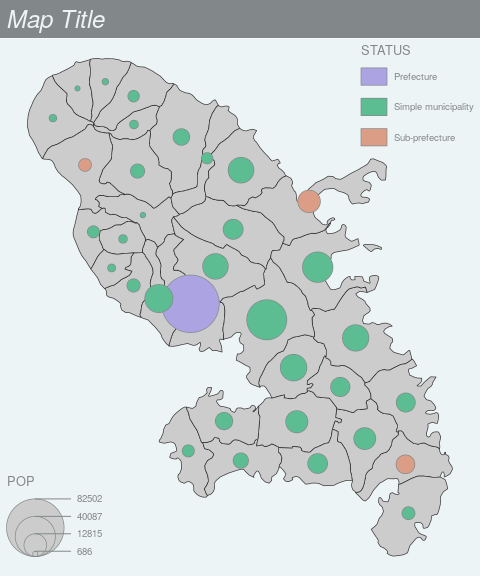
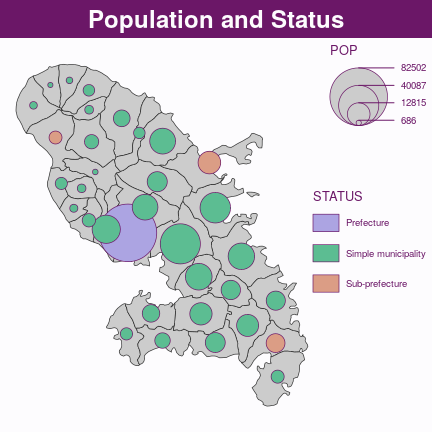
fix: allow the use of the base pipe (R>=4.1.0)
change the functions from where the value is returned, from mf_map() to relevant mf_* functions

diff --git a/README.md b/README.md
@@ -41,7 +41,7 @@ The main `mapsf` function is `mf_map()`.
 
 ``` r
 library(mapsf)
-#> Loading required package: sf
+#> Le chargement a nécessité le package : sf
 #> Linking to GEOS 3.7.1, GDAL 3.1.2, PROJ 7.1.0
 # Import the sample dataset
 mtq <- mf_get_mtq()
@@ -92,18 +92,29 @@ dev.off()
 ![](man/figures/mtq.png)
 
 Note that `mapsf` is, to a certain degree, compatible with the pipe
-syntax:
+syntax from either `magrittr` or `base`(&gt;= 4.1.0):
+
+``` r
+mf_theme("candy")
+mtq |>
+  mf_init(expandBB = c(0,0,0,.4)) |>
+  mf_map(add = TRUE) |>
+  mf_map(c("POP","STATUS"), "prop_typo")
+mf_title("Population and Status")
+```
+
+![](man/figures/README-example4-1.png)<!-- -->
 
 ``` r
 library(magrittr)
 mf_theme("agolalight")
 mtq %>% 
   mf_map() %>%
-  mf_map(c("POP","STATUS"), "prop_typo")
-mf_title()
+  mf_map(c("POP","MED"), "prop_choro")
+mf_title("Population and Wealth")
 ```
 
-![](man/figures/README-example4-1.png)<!-- -->
+![](man/figures/README-example5-1.png)<!-- -->
 
 ## Main features
 
